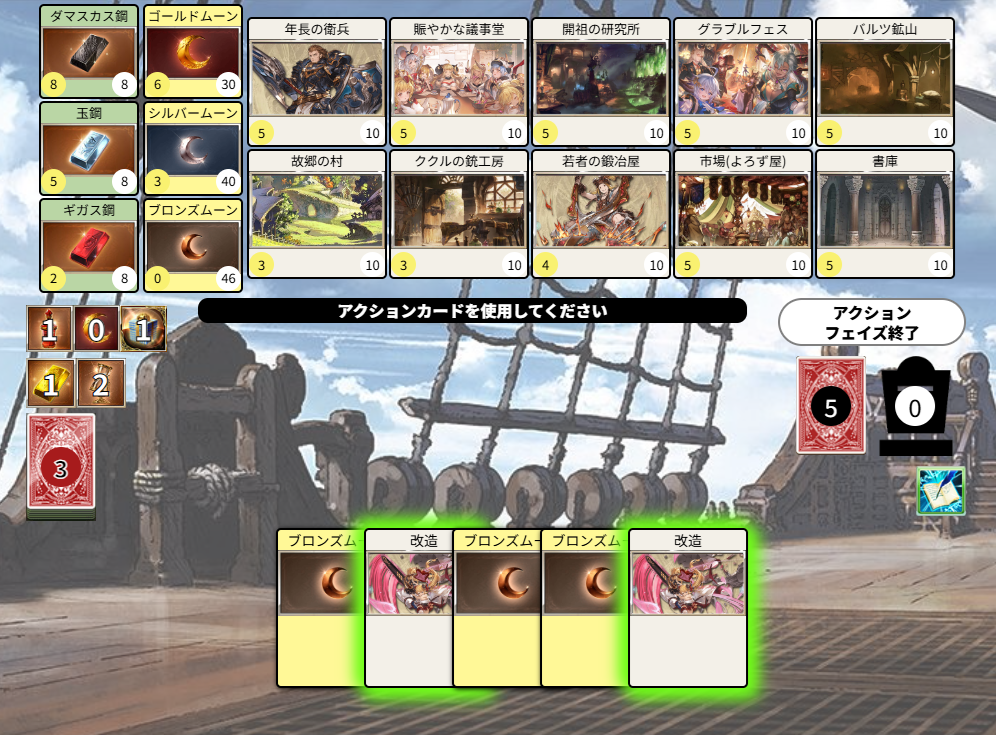
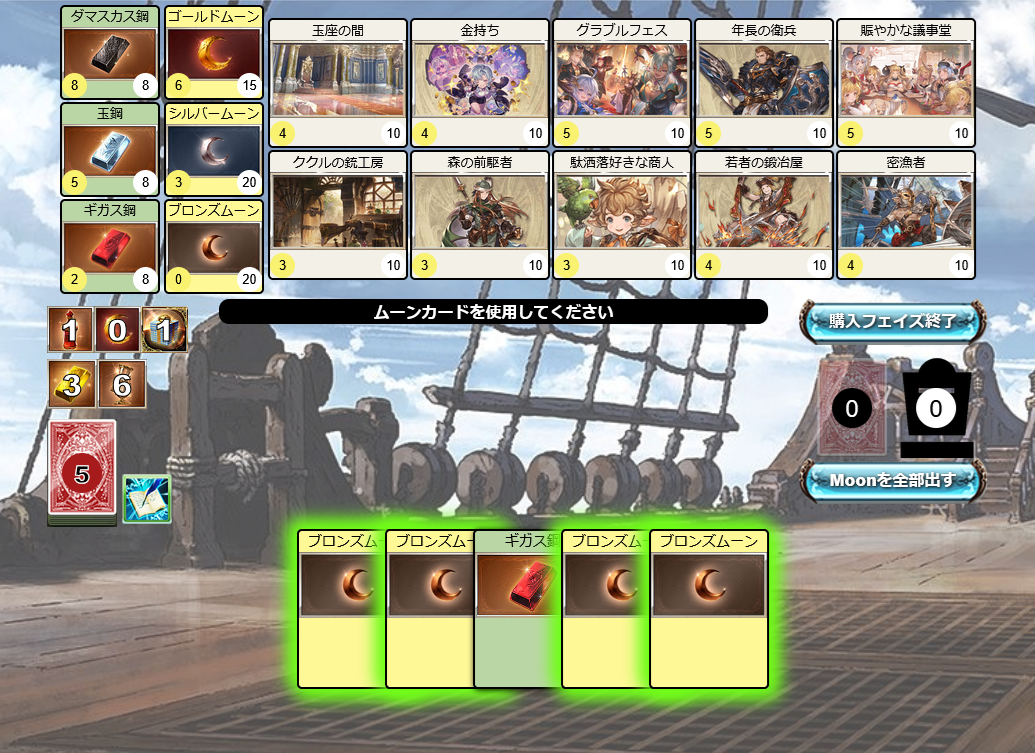
「まとめて出す」ボタンの実装
「まとめて出す」ボタンの実装

diff --git a/js/dominion.js b/js/dominion.js
@@ -446,11 +446,14 @@ function changePhase(ph, addText = ''){
 			updateMultipleBtnDom(`購入フェイズ終了`);
 			updateInfomationDom(`ムーンカードを使用してください`);
 			disabledMultipleBtn(false);
+			disabledTogetherBtn(false);
+			checkMoonCard();
 			updateHandDom();
 			break;
 		case phase.cleanup:
 			updateInfomationDom(`クリーンアップ中です。`);
 			disabledMultipleBtn(true);
+			disabledTogetherBtn(true);
 			// クリーンアップ処理を実行
 			animateCleanupToTrash();
 
@@ -1169,6 +1172,8 @@ function playHandCard(index){
 	setLocalStorage(keyContinuePlayArea, playAreaCard);
 	setLocalStorage(keyContinueStack, stackCard);
 
+	checkMoonCard();
+
 	endAction();
 }
 
@@ -1212,6 +1217,21 @@ function endMoon(){
 	}
 	setLocalStorage(keyContinueStack, stackCard);
 	return ret;
+}
+/*******************************************************/
+/* checkMoonCard：手札にMoonカードがあるかチェックし、各種操作を行う
+/*******************************************************/
+function checkMoonCard(){
+	let moonCount = 0;
+	myHand.forEach((hand) => {
+		if (hand.type == cardType.Money) {
+			moonCount++;
+		}
+	});
+	if(currentPhase == phase.buy && moonCount === 0){
+		disabledTogetherBtn(true);
+		updateInfomationDom(`カードを購入`);
+	}
 }
 /*******************************************************/
 /* reconfigureDeck：捨て札のカードをデッキに再構成する
@@ -1280,7 +1300,25 @@ function pushMultiplebtn(){
 			break;
 	}
 }
-
+/*******************************************************/
+/* pushMultiplebtn：マルチボタンが押された時の処理を行う
+/*******************************************************/
+function pushTogetherbtn(){
+	console.log('pushTogetherbtn');
+	const moonCard = [];
+	myHand.forEach((hand, i) => {
+		console.log(hand);
+		if (hand.type == cardType.Money){
+			console.log(`index: ${i}`);
+			moonCard.unshift(i);
+		}
+	});
+	moonCard.forEach((index) => {
+		console.log(`index: ${index}`);
+		playHandCard(index);
+	});
+	
+}
 /***************************************************************************************/
 /* クリック時の処理
 /***************************************************************************************/
@@ -1470,7 +1508,7 @@ function updateDiscardDom(){
 	$(`.discard-count`).html(`${discard.length}`);
 }
 function updateMultipleBtnDom(text){
-	$(`.multiple-btn`).html(text);
+	$(`.multiple-btn-text`).html(text);
 }
 function updateInfomationDom(text){
 	$(`.info-text`).html(text);
@@ -3040,10 +3078,16 @@ function deletAllStackCard(){
 	return stackCard.splice(0, stackCard.length);
 }
 /*******************************************************/
-/* shuffleArray：配列のシャッフル
+/* disabledMultipleBtn：マルチボタンを使用不可にする
 /*******************************************************/
 function disabledMultipleBtn(flag){
-	return $('.multiple-btn').prop('disabled', flag);
+	$('.multiple-btn').prop("disabled", flag);
+}
+/*******************************************************/
+/* disabledTogetherBtn：まとめて出すボタンを使用不可にする
+/*******************************************************/
+function disabledTogetherBtn(flag){
+	return $('.put-together-btn').prop('disabled', flag);
 }
 /*******************************************************/
 /* shuffleArray：配列のシャッフル

diff --git a/grannion.html b/grannion.html
@@ -65,9 +65,14 @@
 					<div class="base-count turn-count">0</div>
 				</div>
 			</div>
-			<div class="deck-area">
-				<img src="images/infomation/deck.png" alt="デッキ">
-				<div class="deck-count"></div>
+			<div class="deck-space">
+				<div class="deck-area">
+					<img src="images/infomation/deck.png" alt="デッキ">
+					<div class="deck-count"></div>
+				</div>
+				<div class="btn-area setting-area">
+					<img class="setting-open-btn" src="images/infomation/setting.png" alt="設定ボタン">
+				</div>
 			</div>
 			<div class="phase-count"></div>
 		</div>
@@ -76,8 +81,10 @@
 			<div class="play-area"></div>
 		</div>
 		<div class="right-info">
-			<div class="phase-info" onclick="pushMultiplebtn()">
-				<img src="images/btn4.png"><span class="multiple-btn">ｱｸｼｮﾝﾌｪｲｽﾞ終了</span>
+			<div class="phase-info">
+				<button class="multiple-btn" onclick="pushMultiplebtn()">
+					<img src="images/btn4.png"><span class="multiple-btn-text">ｱｸｼｮﾝﾌｪｲｽﾞ終了</span>
+				</button>
 			</div>
 			<div class="trash-info">
 				<div class="discard-area">
@@ -89,11 +96,9 @@
 					<div class="trash-count">0</div>
 				</div>
 			</div>
-			<div class="btn-info">
-				<div class="btn-area setting-area">
-					<img class="setting-open-btn" src="images/infomation/setting.png" alt="設定ボタン">
-				</div>
-			</div>
+			<button class="put-together-btn" onclick="pushTogetherbtn()" disabled>
+				<img src="images/btn4.png"><span>Moonを全部出す</span>
+			</button>
 		</div>
 	</div>
 	<div class="hand-area">
@@ -353,15 +358,15 @@
 								：勝利点<br>
 								<img src="images/rule/turn.jpg" style="width: 40px;">
 								：ターン数<br>
+								<img src="images/rule/setting.png" style="width: 40px;">
+								：メニューボタン<br>
 							</p>
 						</div>
 						<div>
 							<img src="images/rule/right-area.png" alt="">
 							<p class="rule-text">
-								ゲーム画面右部分では捨て札(左の絵札)と廃棄した札(右の墓場マーク)、ボタン、
-								そしてメニューボタンを表示しています。<br>
-								<img src="images/rule/setting.png" style="width: 40px;">
-								：メニューボタン<br>
+								ゲーム画面右部分では捨て札(左の絵札)と廃棄した札(右の墓場マーク)、
+								各種ボタンを表示しています。
 							</p>
 						</div>
 					</div>

diff --git a/css/style.css b/css/style.css
@@ -230,10 +230,15 @@
 	position: absolute;
 }
 
+.deck-space{
+	display: flex;
+	align-items: flex-end
+}
 .deck-area{
 	height: 108.07px;
 	width: 70px;
 	margin-top: 5px;
+	margin-right: 5px;
 	position: relative;
 }
 .deck-area img{
@@ -259,6 +264,20 @@
 	transform: translate(-50%, -50%);
 }
 
+.btn-area{
+	width: 50px;
+	height: 100%;
+}
+.btn-area img{
+	width: 100%;
+	cursor: pointer;
+}
+.btn-area img:hover{
+	opacity: 0.8;
+}
+.btn-area img:active{
+	transform: scale(0.95) translateY(2px);
+}
 /***********************************************************************/
 /* main-info
 /***********************************************************************/
@@ -311,17 +330,23 @@
 	display: flex;
 	flex-direction: column;
 }
-.phase-info{
+.multiple-btn{
 	position: relative;
 	cursor: pointer;
+	background-color: transparent;
+	border: none;
 }
-.phase-info:active{
+.multiple-btn:active{
 	transform: scale(0.95) translate(0,2px);
 }
-.phase-info img{
+.multiple-btn:disabled{
+	opacity: 0;
+	cursor: default;
+}
+.multiple-btn img{
 	width: 100%;
 }
-.phase-info span{
+.multiple-btn span{
 	width: 100%;
 	position: absolute;
 	top: 50%;
@@ -394,26 +419,33 @@
 	margin: 0 2px;
 }
 
-.btn-info{
-	width: 100%;
-	height: 50px;
-	display: flex;
-	flex-direction: row-reverse;
-	margin-top: 10px;
-}
-.btn-area{
-	width: 50px;
-	height: 100%;
-}
-.btn-area img{
-	width: 100%;
+.put-together-btn{
+	position: relative;
 	cursor: pointer;
+	background-color: transparent;
+	border: none;
 }
-.btn-area img:hover{
-	opacity: 0.8;
+.put-together-btn:active{
+	transform: scale(0.95) translate(0,2px);
 }
-.btn-area img:active{
-	transform: scale(0.95) translateY(2px);
+.put-together-btn:disabled{
+	opacity: 0;
+	cursor: default;
+}
+.put-together-btn img{
+	width: 100%;
+}
+.put-together-btn span{
+	width: 100%;
+	position: absolute;
+	top: 50%;
+	left: 50%;
+	transform: translate(-50%, -60%);
+	text-align: center;
+	font-size: 16px;
+	font-weight: 900;
+	color: white;
+	text-shadow: 1px 1px 3px black;
 }
 /***********************************************************************/
 /* hand-area
@@ -423,6 +455,7 @@
 	max-width: 940px;
 	height: 160px;
 	margin: 0 auto;
+	position: relative;
 	display: flex;
 	justify-content: center;
 	align-items: center;

diff --git a/index.html b/index.html
@@ -253,15 +253,15 @@
 								：勝利点<br>
 								<img src="images/rule/turn.jpg" style="width: 40px;">
 								：ターン数<br>
+								<img src="images/rule/setting.png" style="width: 40px;">
+								：メニューボタン<br>
 							</p>
 						</div>
 						<div>
 							<img src="images/rule/right-area.png" alt="">
 							<p class="rule-text">
-								ゲーム画面右部分では捨て札(左の絵札)と廃棄した札(右の墓場マーク)、ボタン、
-								そしてメニューボタンを表示しています。<br>
-								<img src="images/rule/setting.png" style="width: 40px;">
-								：メニューボタン<br>
+								ゲーム画面右部分では捨て札(左の絵札)と廃棄した札(右の墓場マーク)、
+								各種ボタンを表示しています。
 							</p>
 						</div>
 					</div>
